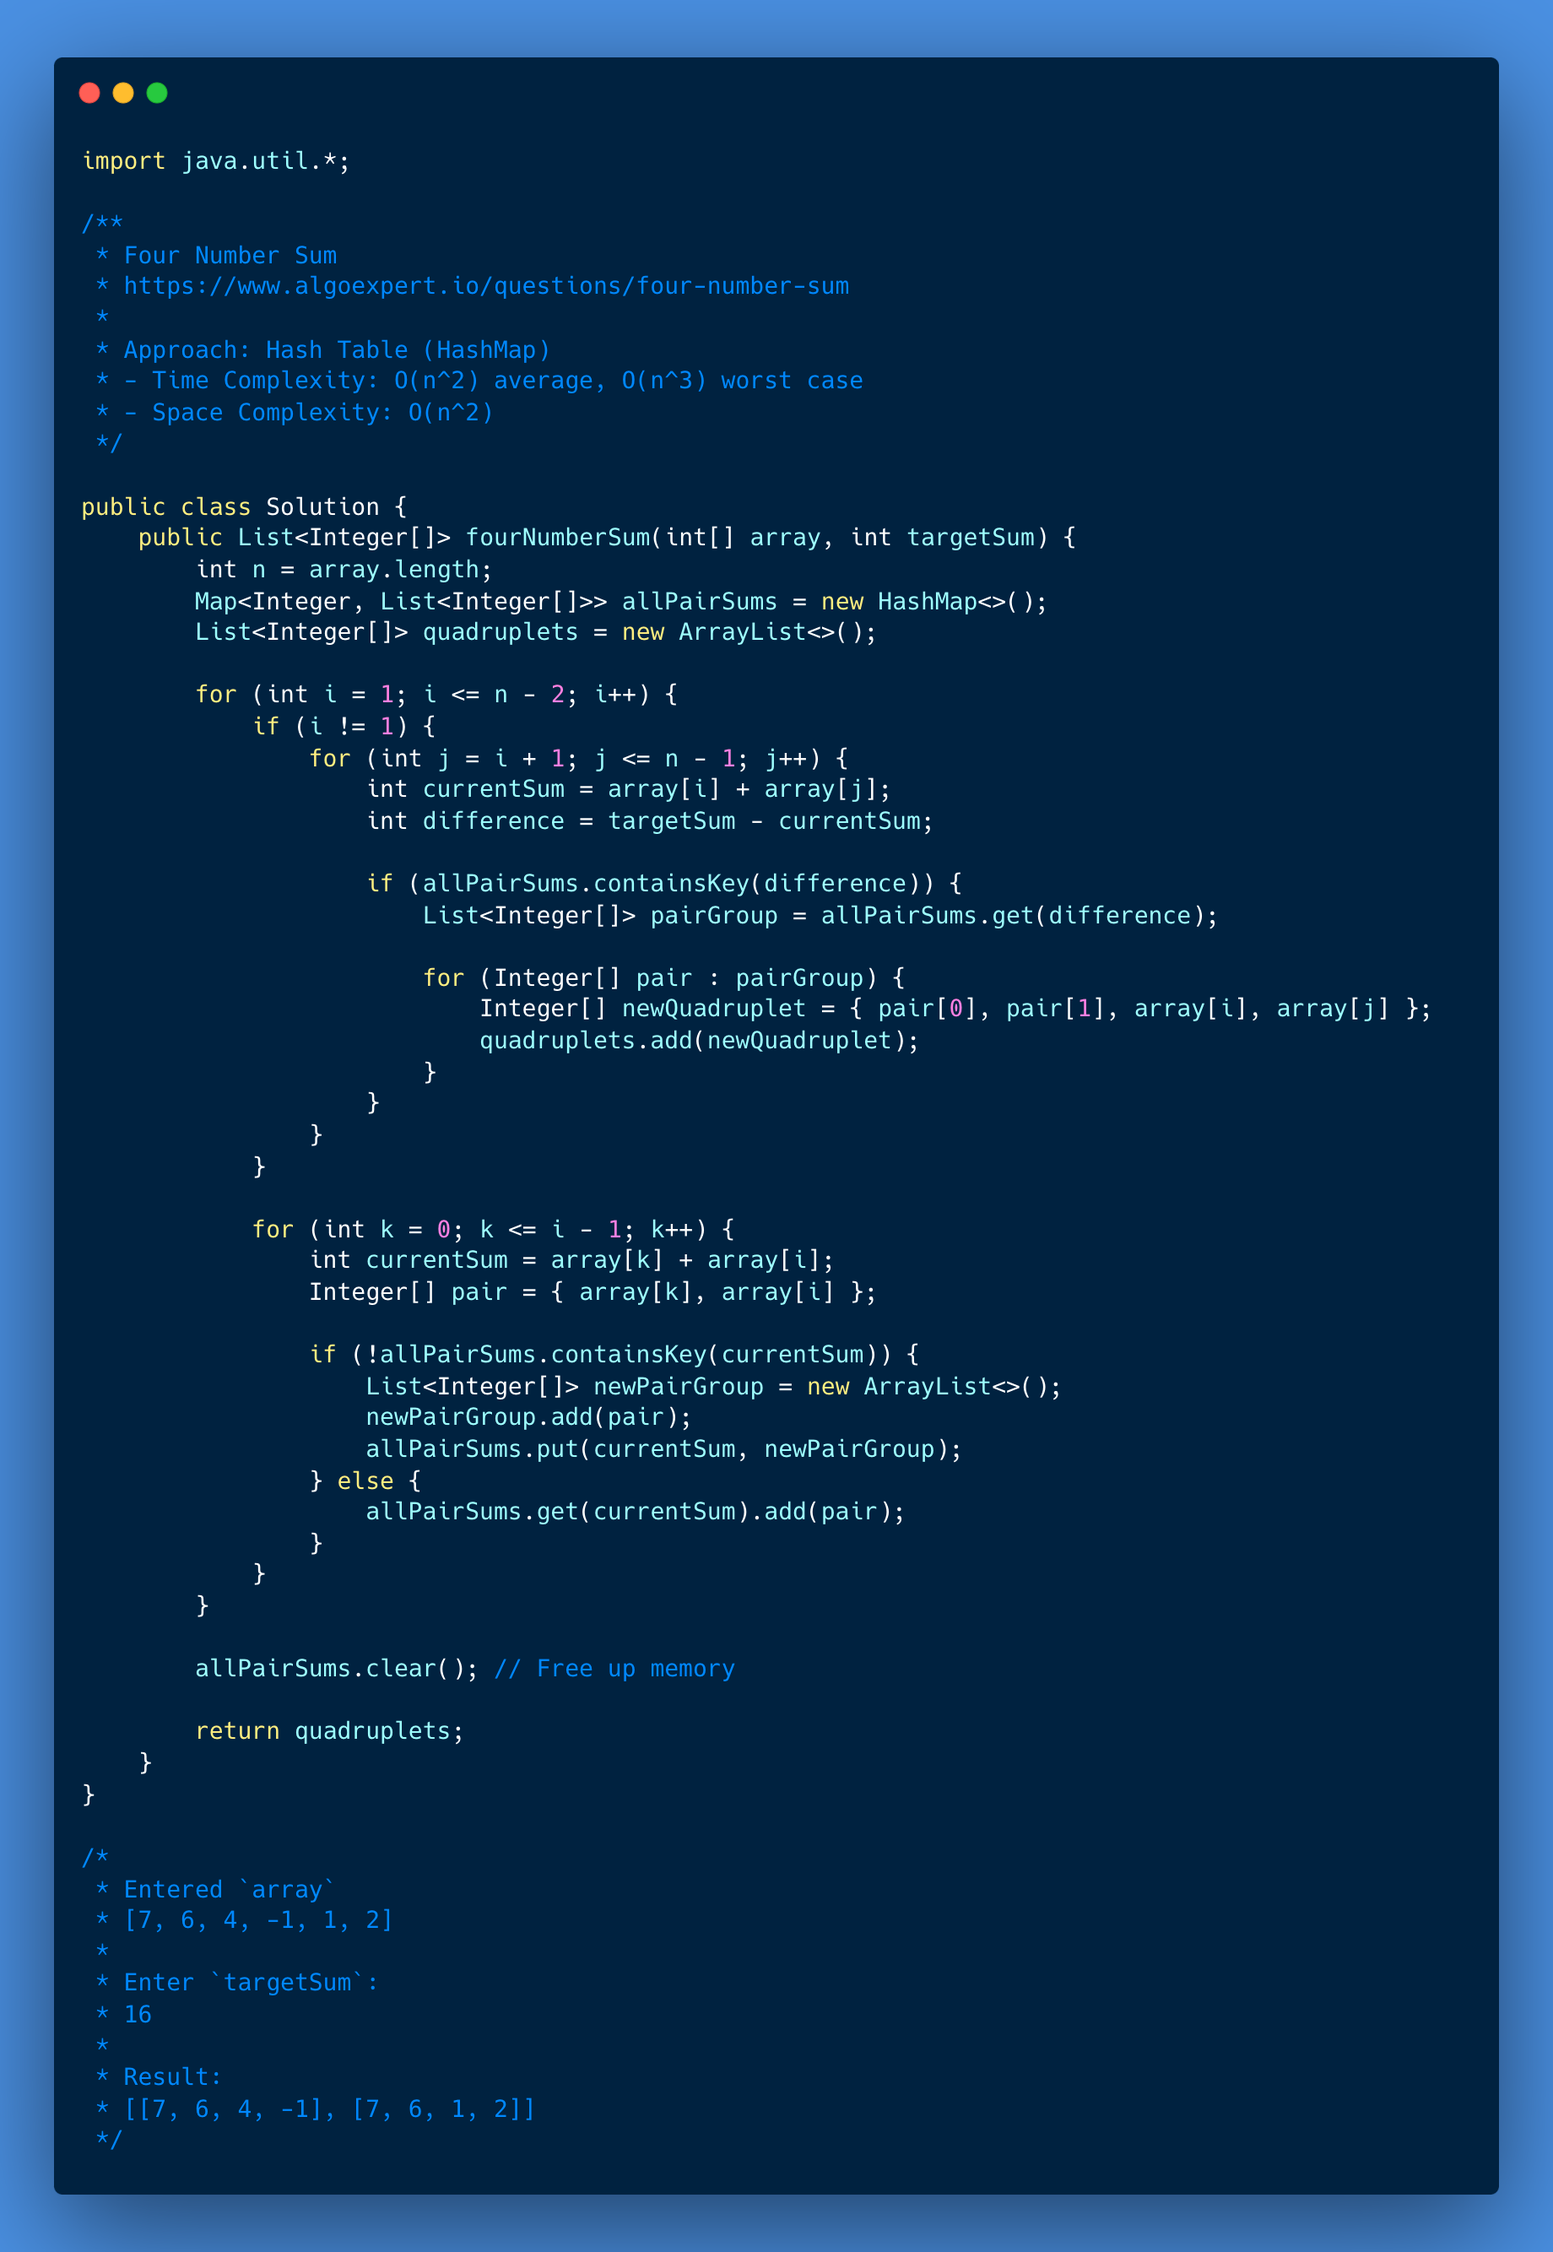
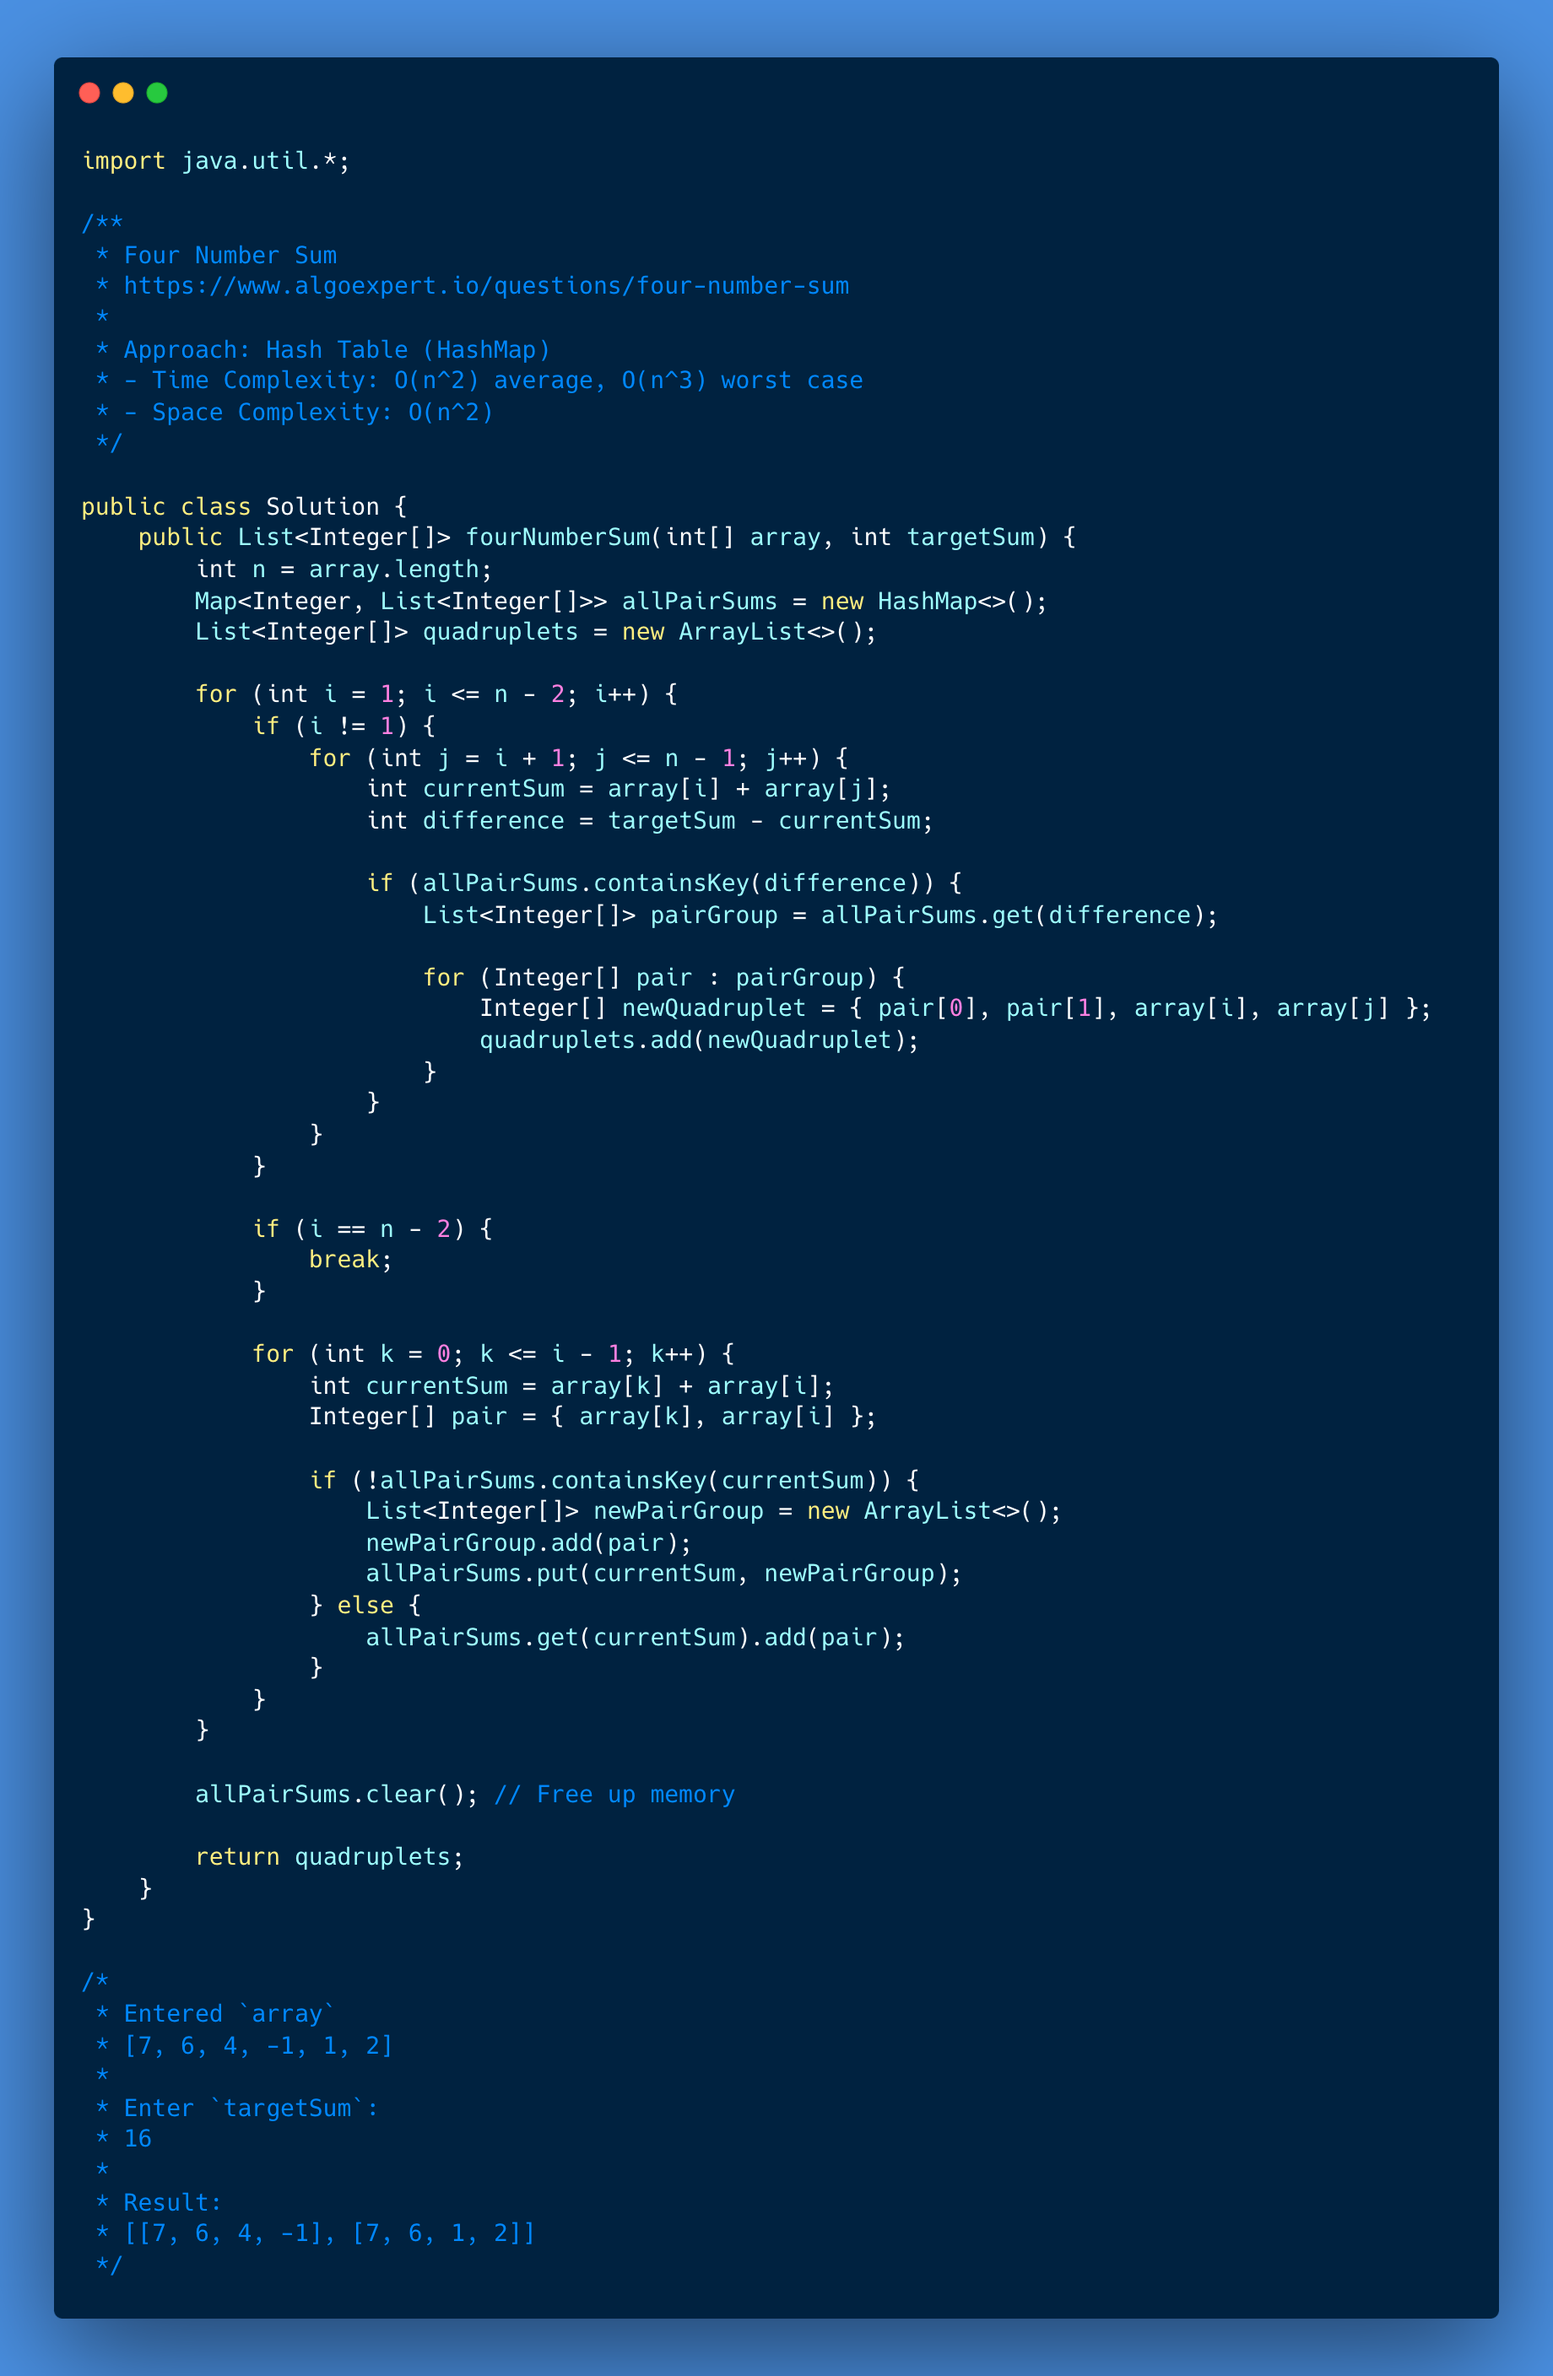
Solve Problem: Four Number Sum

diff --git a/157-four-number-sum/001-solution/Solution.java b/157-four-number-sum/001-solution/Solution.java
@@ -32,6 +32,10 @@ public class Solution {
                 }
             }
 
+            if (i == n - 2) {
+                break;
+            }
+
             for (int k = 0; k <= i - 1; k++) {
                 int currentSum = array[k] + array[i];
                 Integer[] pair = { array[k], array[i] };
